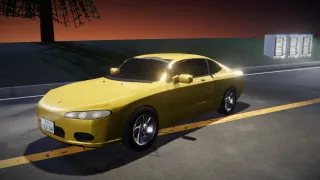
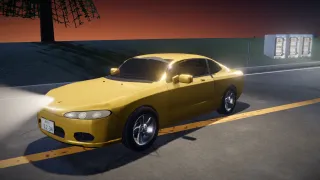
Headlights in the haze: a lamp has a size (no white cone across the garage view), less gain; thumbnails redrawn with the current look
Claude-Session: https://claude.ai/code/session_01HZanQUf8VteM7zbwbZ2Dd6

diff --git a/frontend/src/game/render/volumetricLights.ts b/frontend/src/game/render/volumetricLights.ts
@@ -27,7 +27,9 @@ const LAMP_GAIN = 0.4;
 /** steps along the view ray per headlight cone */
 const STEPS = 6;
 /** how far a headlight's glow reaches (m), and its light in the air against the SpotLight's on surfaces */
-const SPOT_REACH = 50, SPOT_GAIN = 0.5;
+const SPOT_REACH = 50, SPOT_GAIN = 0.32;
+/** the size of a headlamp for the light in the air (m): softens the cone's tip */
+const SPOT_SIZE = 1.6;
 /** the ray is not followed further than this (m): the sky has no depth */
 const FAR = 400;
 /** how much more the haze scatters forward than sideways (Henyey–Greenstein g) */
@@ -169,7 +171,9 @@ export function volumetricLights(depth: TextureNode, camera: THREE.PerspectiveCa
         const reach = far.div(SPOT_REACH * SPOT_REACH).oneMinus().saturate();
         lit.addAssign(cone.mul(reach.mul(reach)).mul(phase(dir, ray)));
       }
-      glow.addAssign(colour.rgb.mul(lit.mul(span).div(h.mul(STEPS)).mul(S.w)));
+      // (1/(d² + a²) instead of 1/d²: a lamp is not a point, and a view ray grazing it must not turn white —
+      // the garage looks across a bike's beam from two metres)
+      glow.addAssign(colour.rgb.mul(lit.mul(span).div(h.mul(h).add(SPOT_SIZE * SPOT_SIZE).sqrt().mul(STEPS)).mul(S.w)));
     }
     return vec4(glow.mul(uDensity), 1);
   })();
